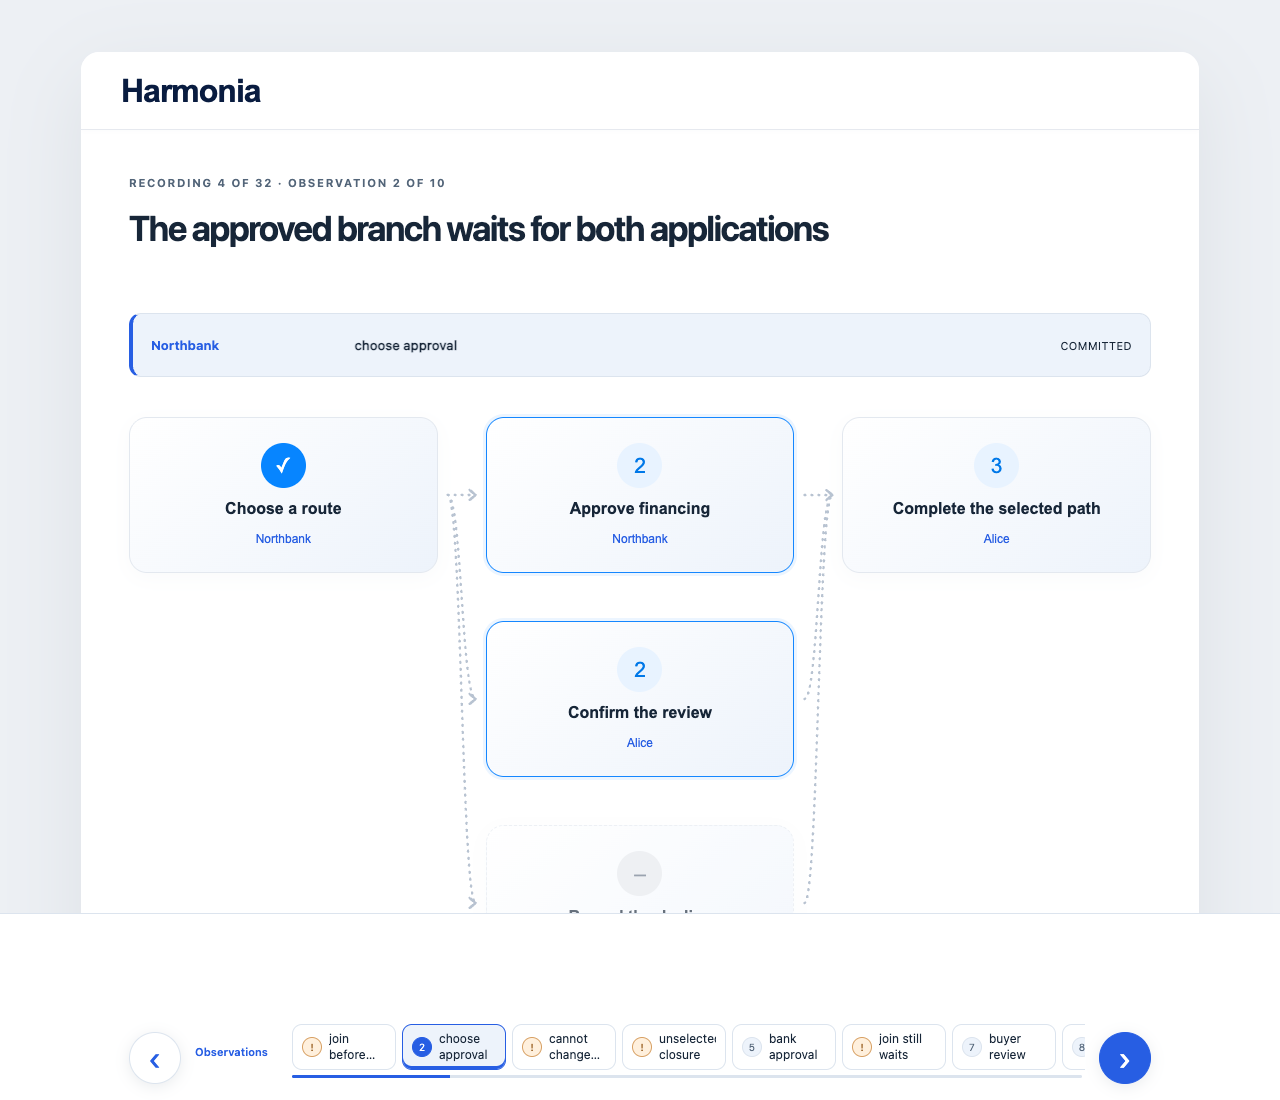
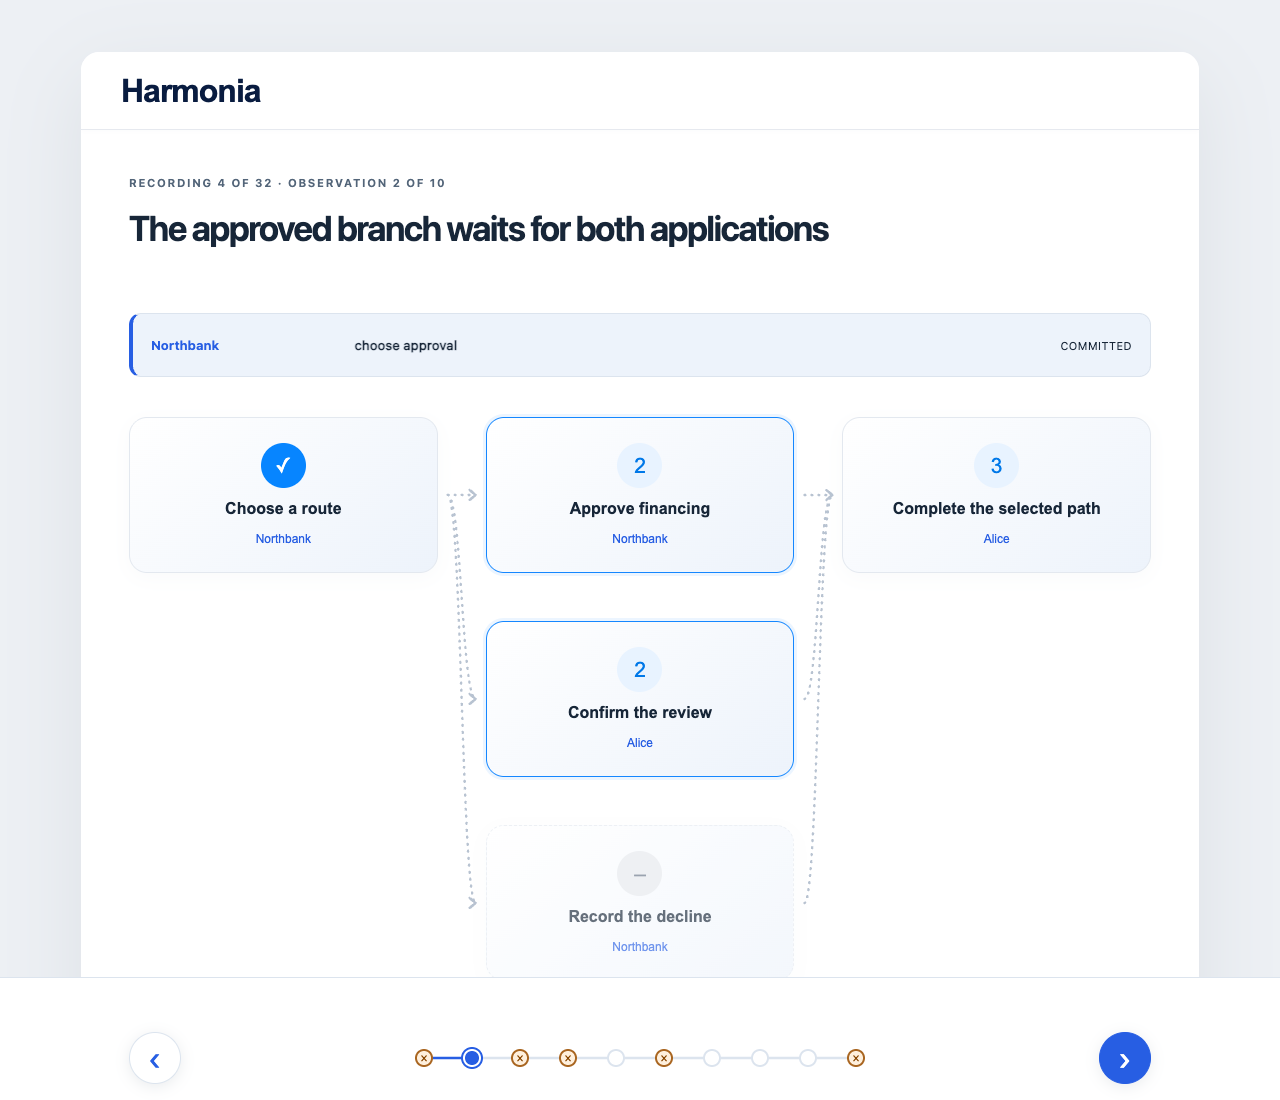
test(ui): verify compact workflow summaries in served and exported readers

diff --git a/design/0.2/book.js b/design/0.2/book.js
@@ -9,17 +9,22 @@ HarmoniaView.mounts.push(() => {
   const previous=document.getElementById('previous-step'),next=document.getElementById('next-step');
   const move=url=>view.go(view.href(url));
   const labels={'bank-assessment':'Bank decides','make-proposal':'Alice proposes','buyer-agent-relays':'Ben relays','seller-agent-receives':'Sofia receives','rejected-financing':'Offer refused','seller-agrees':'Agree trade','seller-locks':'Lock assets','source-confirms':'Source ready','destination-prepares':'Permit receipt','destination-confirms':'Destination ready','settle':'Settle'};
-  const featured={'purchase-approved':[0,2,5,7,8],'purchase-rejected':[0,1,3],'transfer-approved':[0,1,2,3,4,5,8],'transfer-final-leg-rejected':[0,1,2,3,4,5,6]};
+  const featured={
+    'purchase-approved':{stops:[0,2,5,7,8],sharedPrefix:0,outcome:'complete'},
+    'purchase-rejected':{stops:[0,1,3],sharedPrefix:1,outcome:'refused'},
+    'transfer-approved':{stops:[0,1,2,3,4,5,8],sharedPrefix:0,outcome:'complete'},
+    'transfer-final-leg-rejected':{stops:[0,1,2,3,4,5,6],sharedPrefix:6,outcome:'refused'}
+  };
   let back,forward;
   view.subscribe(s=>{
     const story=view.config.stories[s.story],units=story.presentation.units;
     if(scene){
       const purchase=story.presentation.kind==='Purchase';
-      const sequences=Object.fromEntries(Object.keys(view.config.stories).map(key=>[key,[...new Set([...featured[key],...(key===s.story?[s.step]:[])])].sort((a,b)=>a-b)]));
+      const sequences=Object.fromEntries(Object.keys(view.config.stories).map(key=>[key,[...new Set([...featured[key].stops,...(key===s.story?[s.step]:[])])].sort((a,b)=>a-b)]));
       const sequence=sequences[s.story],index=sequence.indexOf(s.step);
       const frame=JSON.parse(projectHarmoniaRecording(JSON.stringify(story),s.step,'all'));
       renderHarmoniaScene(scene,JSON.stringify(frame));
-      const paths=Object.entries(sequences).map(([key,stops])=>({id:key,label:key.includes('approved')?'Approval path':'Refusal path',sharedPrefix:key.includes('approved')?0:purchase?1:6,outcome:key.includes('approved')?'complete':'refused',steps:stops.map((step,i)=>{
+      const paths=Object.entries(sequences).map(([key,stops])=>({id:key,label:featured[key].outcome==='complete'?'Approval path':'Refusal path',sharedPrefix:featured[key].sharedPrefix,outcome:featured[key].outcome,steps:stops.map((step,i)=>{
         const unit=view.config.stories[key].presentation.units[step-1];
         return {id:key+':'+step,label:step===0?'Begin':labels[unit.id]||unit.id.replaceAll('-',' '),state:unit?.actual.outcome==='rejected'||unit?.actual.application==='rejected'?'refused':key===s.story&&i<index?'complete':key===s.story&&i===index?'current':'pending'};
       })}));

diff --git a/docs/0.2/GRAPH-NAVIGATION.md b/docs/0.2/GRAPH-NAVIGATION.md
@@ -15,7 +15,7 @@ available route and selected moment. This supersedes the labeled step-card layou
   footer from featured workflows. Keep provenance in their evidence view.
 - [x] Verify stable geometry, meaningful state changes, every branch address,
   mobile touch targets, and desktop/mobile screenshots.
-- [ ] Refresh the served book, commit and push the checked result.
+- [x] Refresh the served book, commit and push the checked result.
 
 A declined application and a refused attempt are separate facts. The new badges
 must preserve that distinction. Inspecting live progress must never submit a
@@ -27,3 +27,9 @@ The detailed evidence view retains exact run revisions and expected/observed dat
 Screenshots: [desktop](../../design/0.2/carousel-review/summary-1280.png),
 [mobile](../../design/0.2/carousel-review/summary-390.png),
 [narrow mobile](../../design/0.2/carousel-review/summary-320.png).
+
+Verified with 15 Scala checks, 28 edition checks, and 570 browser assertions.
+The recording tour reaches all 130 observations. Across 26 screenshot pairs,
+landmarks move at most 5.88 CSS pixels; every transition changes visible pixels.
+Live inspection leaves the pending sandbox untouched. The standalone export and
+served guide both use this presentation; 388 source fingerprints match.
